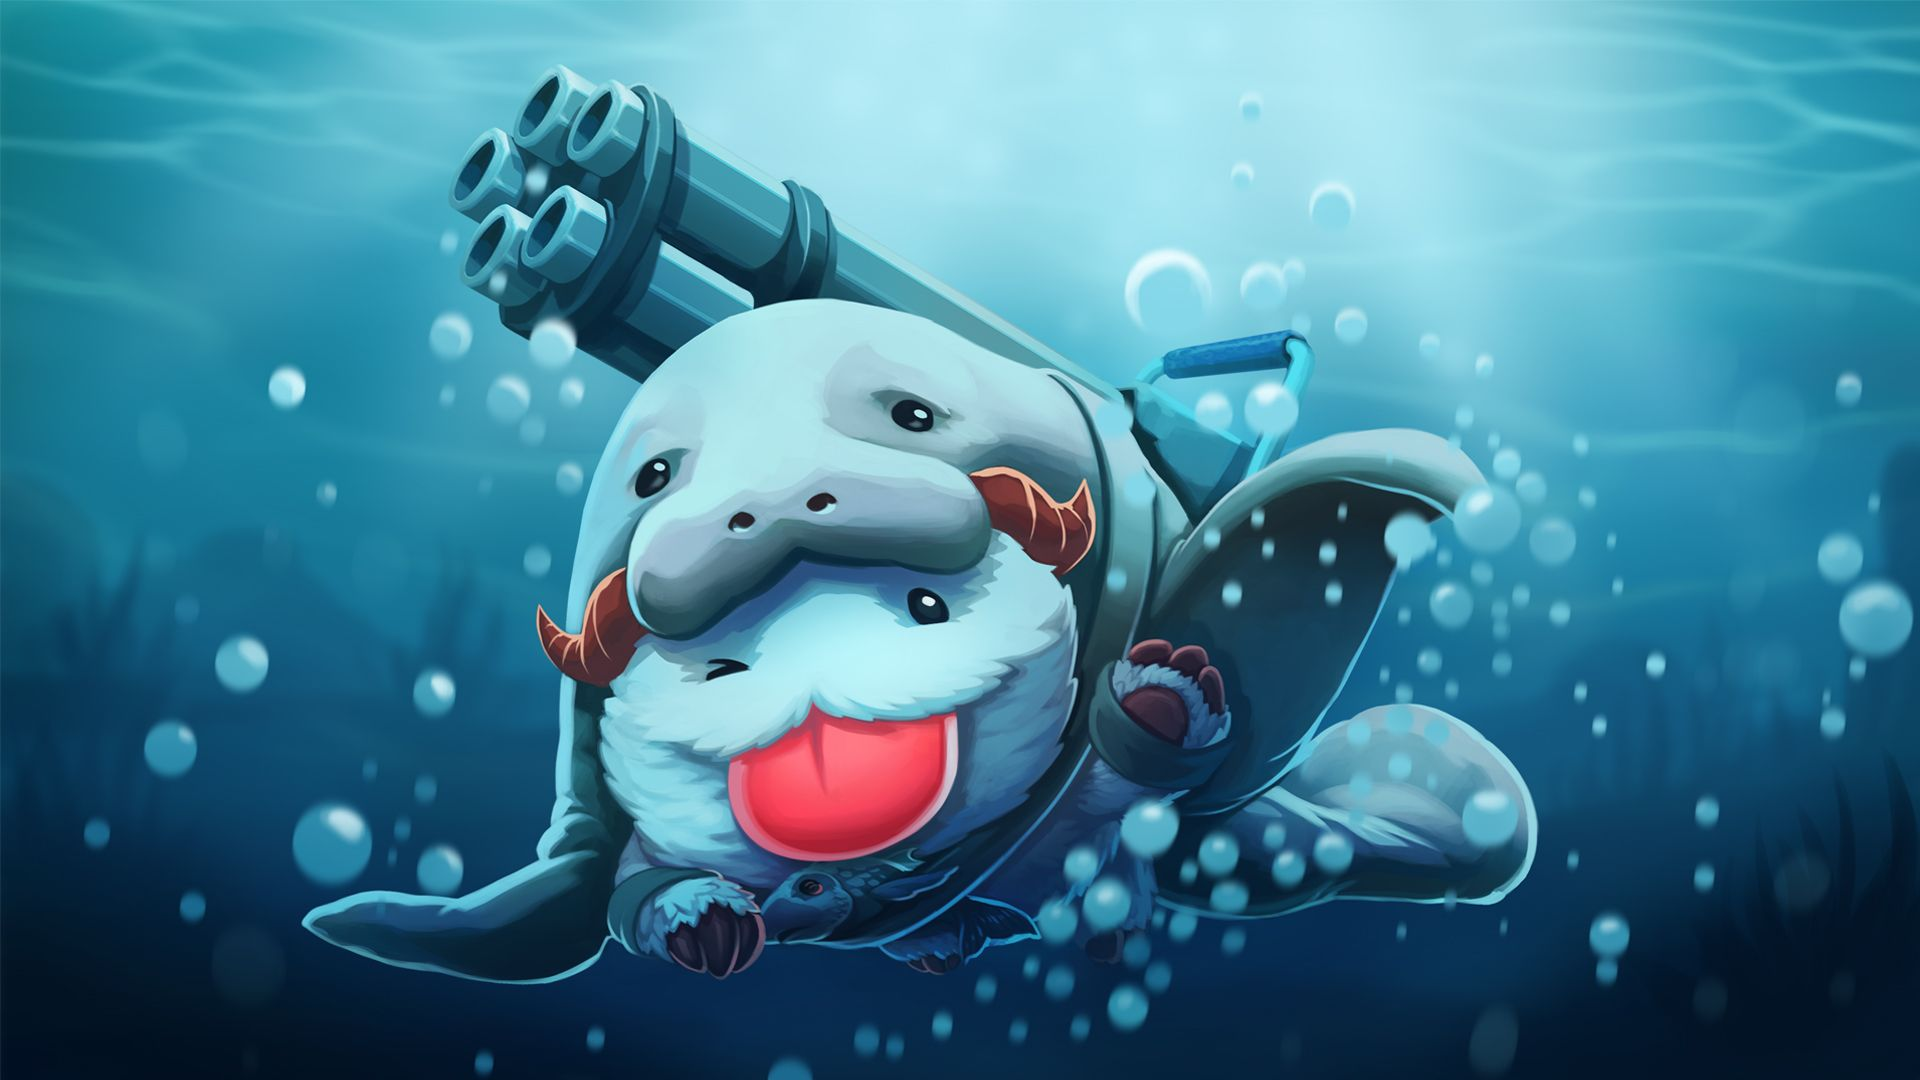
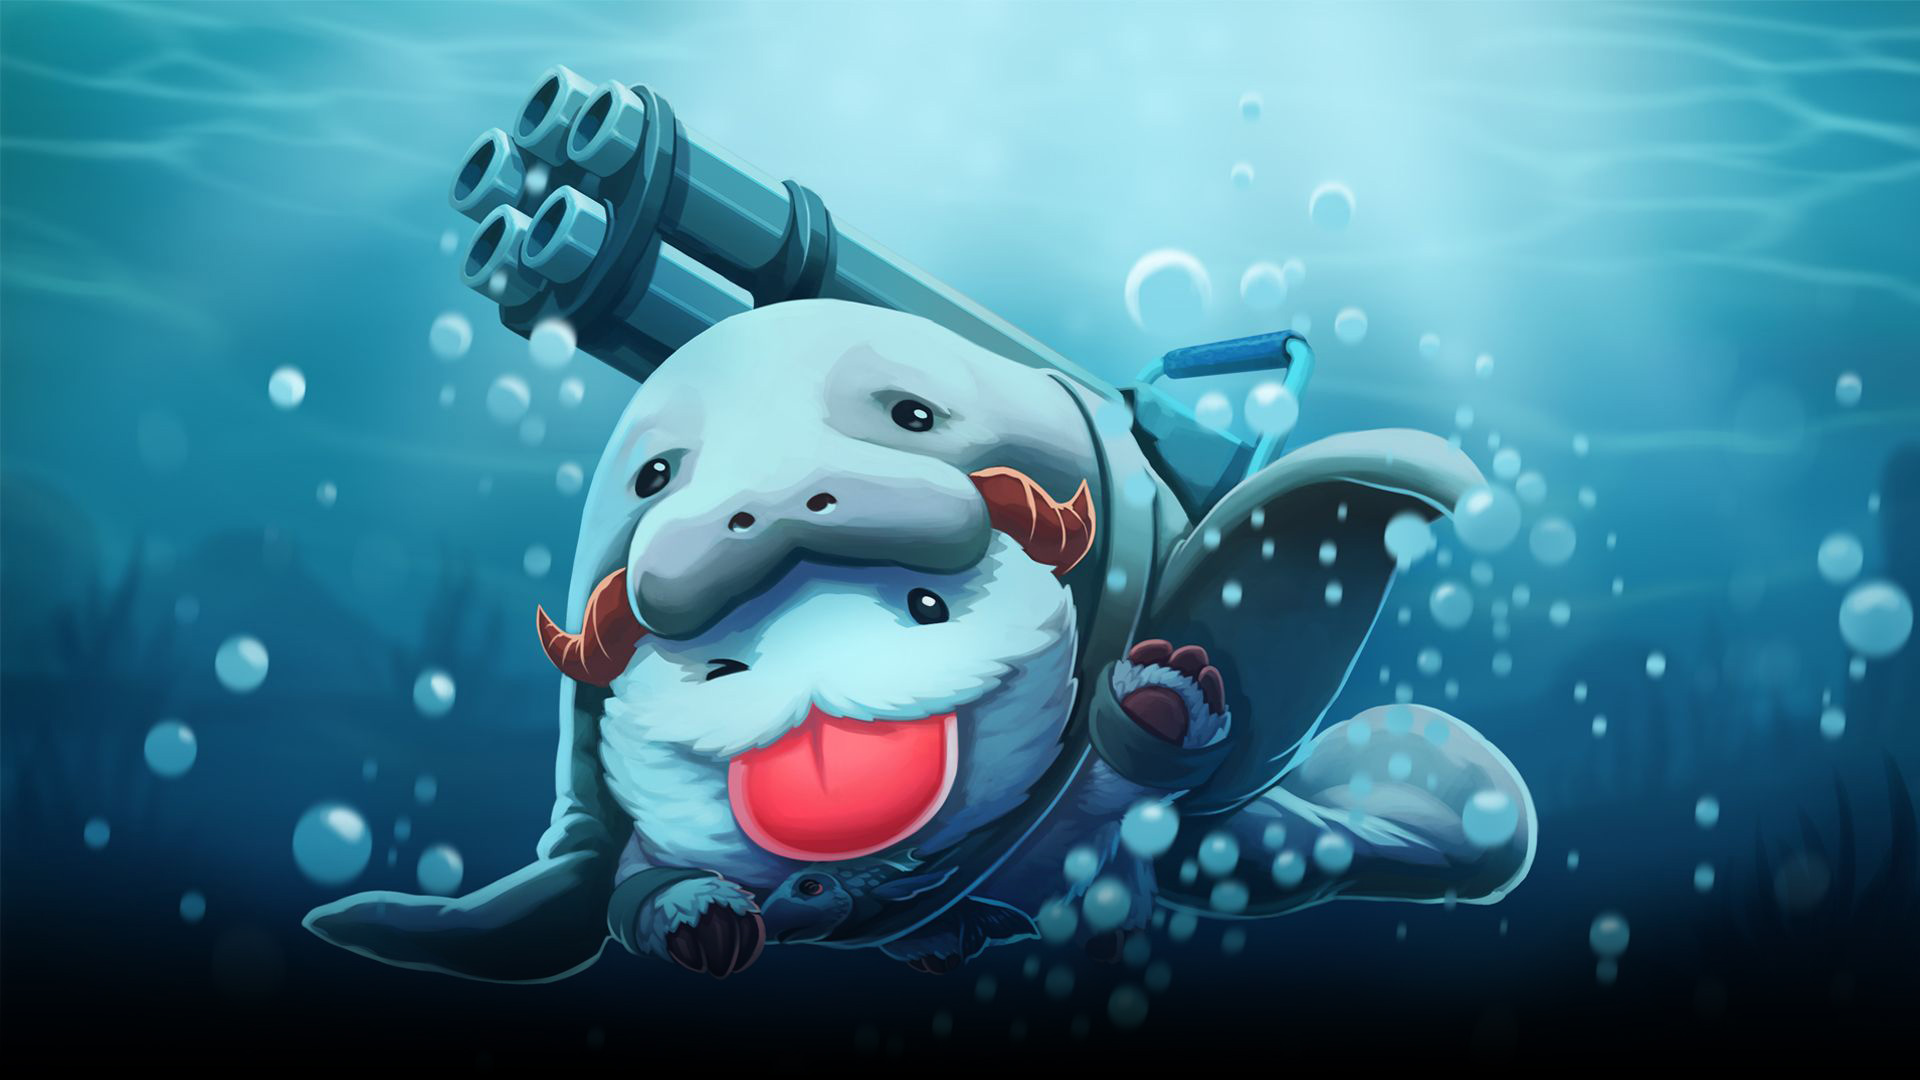
update login form

Changed region(s): [[0.0, 0.7944, 1.0, 1.0]]

diff --git a/src/app/share/components/login/login.component.html b/src/app/share/components/login/login.component.html
@@ -7,16 +7,16 @@
         </div>
       </div>
       <div class="user-access-title margin-left-25">Đăng nhập</div>
-      <div class="form margin-top-20 padding-left-right-25">
+      <div class="form margin-top-15 padding-left-right-25">
         <mat-form-field appearance="outline" class="margin-top-15">
           <mat-label>Tài khoản</mat-label>
           <input matInput placeholder="Tên tài khoản" [formControl]="userName" [(ngModel)]="loginInfo.username" />
-          <mat-error *ngIf="userName.invalid && isSubmit" class="margin-top-15">Bạn cần nhập tên đăng nhập</mat-error>
+          <mat-error *ngIf="userName.invalid && isSubmit">Bạn cần nhập tên đăng nhập</mat-error>
         </mat-form-field>
         <mat-form-field appearance="outline" class="margin-top-15">
           <mat-label>Mật khẩu</mat-label>
-          <input type="password" matInput placeholder="Nhập mật khẩu" [formControl]="password" [(ngModel)]="loginInfo.password" />
-          <mat-error *ngIf="password.invalid && isSubmit" class="margin-top-15">Bạn cần nhập mật khẩu</mat-error>
+          <input type="password" matInput placeholder="Nhập mật khẩu" (keyup.enter)="login()" [formControl]="password" [(ngModel)]="loginInfo.password" />
+          <mat-error *ngIf="password.invalid && isSubmit">Bạn cần nhập mật khẩu</mat-error>
         </mat-form-field>
         <div class="">{{ message }}</div>
         <button class="margin-top-30" mat-flat-button color="light-blue" (click)="login()">

diff --git a/src/app/share/components/login/login.component.css b/src/app/share/components/login/login.component.css
@@ -8,6 +8,6 @@
   margin-bottom: 15px;
 }
 
-::ng-deep div.mat-form-field-wrapper {
+/* ::ng-deep div.mat-form-field-wrapper {
   padding-bottom: 7px !important;
-}
+} */

diff --git a/src/styles.css b/src/styles.css
@@ -7,7 +7,7 @@ html {
 }
 
 body {
-  background: white;
+  background: black;
   margin: 0;
   height: 100%;
 }
